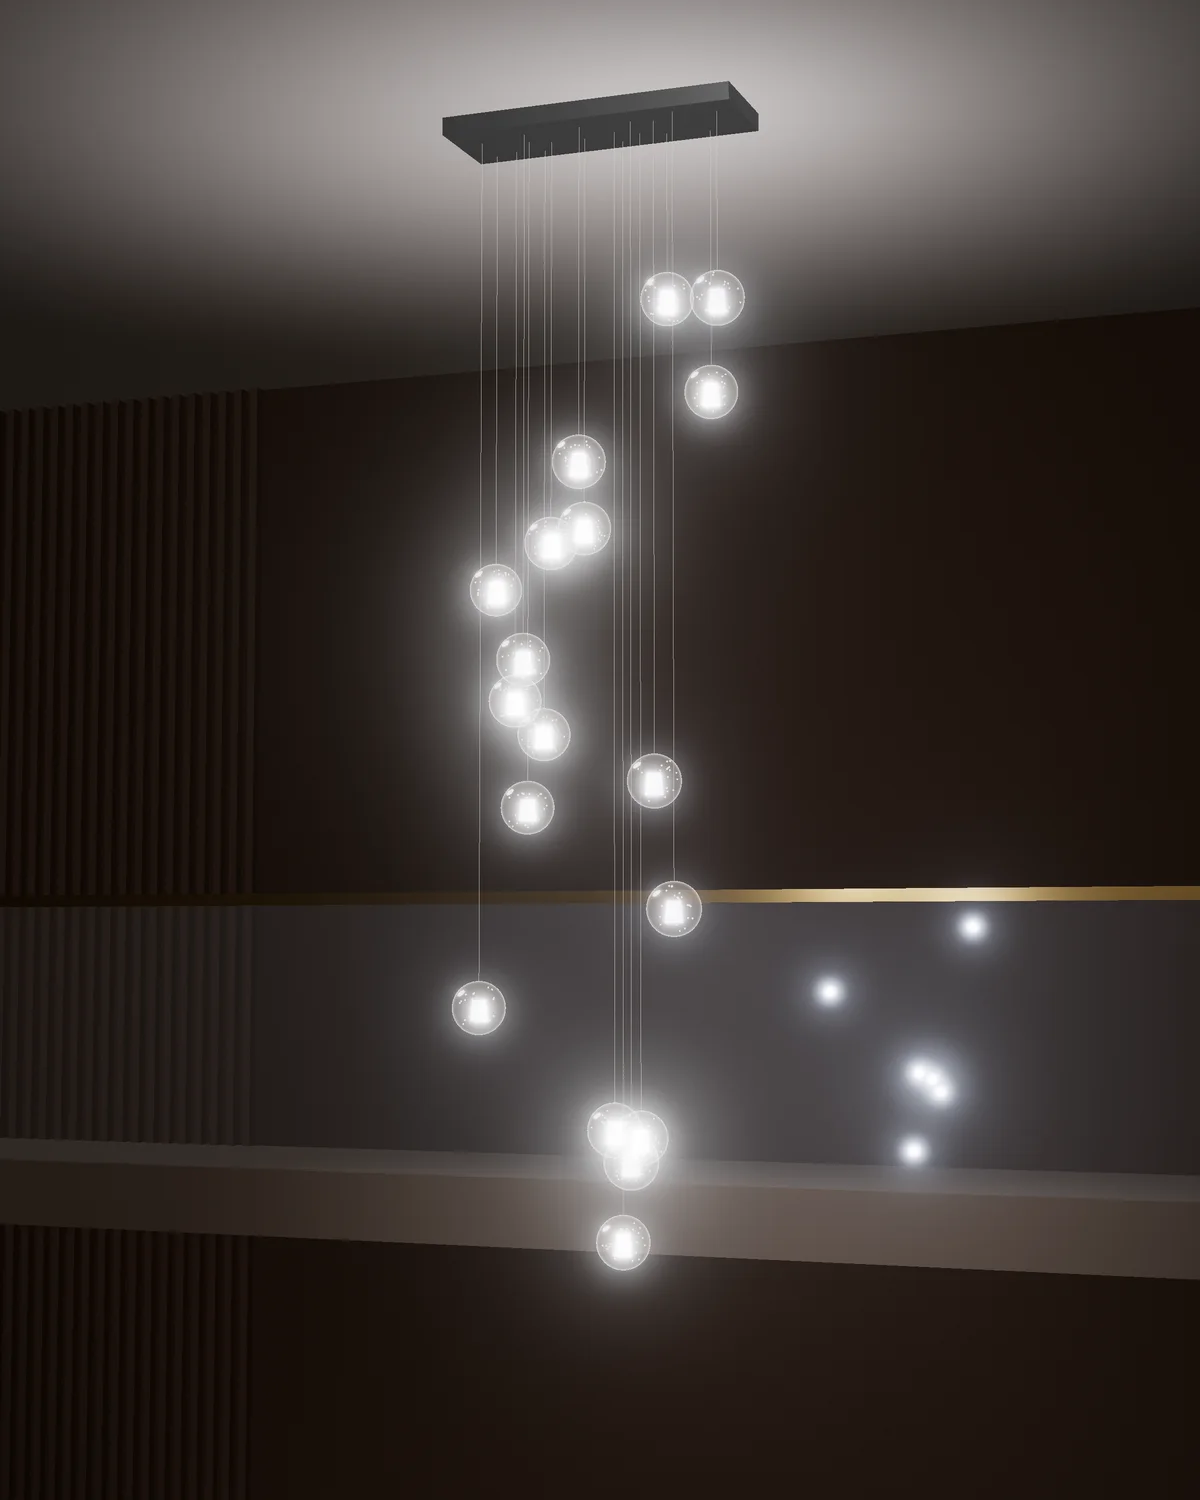
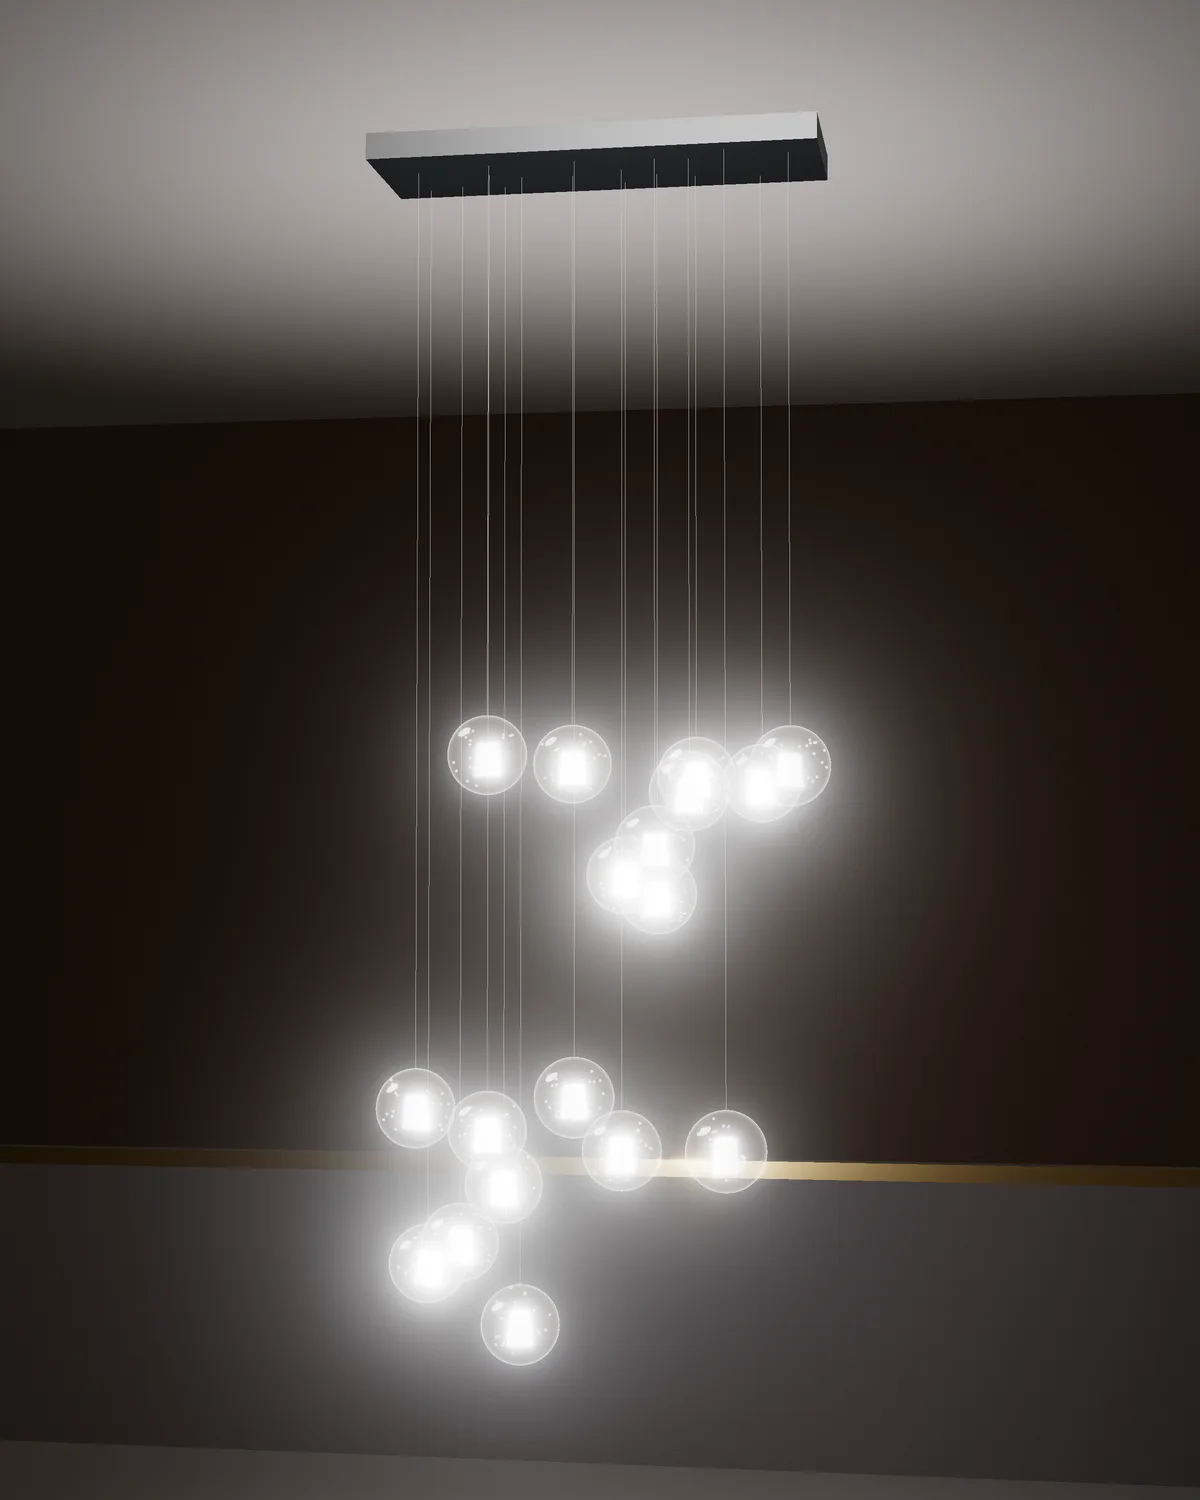
LUMÉANCE : rendus Céleste rectangulaires conformes aux schémas du fabricant
- Barre 5 et 7 sphères : sphères alignées et régulièrement espacées,
  suspendues en zigzag sur une hauteur réduite, proportionnées à la barre.
- Rectangles 14, 18, 36 : sphères groupées dans une bande (et non en
  cascade), cadrage resserré de face, pavillon sans reflet blanc.

Claude-Session: https://claude.ai/code/session_01TDDveFcW3GdVAgEH7JeJuL

diff --git a/lumeance/scripts/render/scene.html b/lumeance/scripts/render/scene.html
@@ -81,6 +81,7 @@ const key = new THREE.SpotLight({ chaud: 0xffd29a, neutre: 0xffeedd, froid: 0xe8
 
 // ── Pavillon ──
 const chrome = new THREE.MeshStandardMaterial({ color: 0xdedede, metalness: 1, roughness: 0.12 });
+if (shape === "rect") { chrome.roughness = 0.3; chrome.color.set(0x8c8c8c); } // évite le reflet blanc de face sur la barre
 const canopyT = 0.05;
 let canopy;
 if (shape === "round") canopy = new THREE.Mesh(new THREE.CylinderGeometry(W / 2, W / 2, canopyT, 96), chrome);
@@ -92,7 +93,10 @@ const margin = 0.04;
 const pts = [];
 const minDist = Math.max(0.035, Math.sqrt((W * D) / Math.max(n, 1)) * 0.55);
 let guard = 0;
-while (pts.length < n && guard++ < 20000) {
+// Barre étroite (rectangle 5 et 7 sphères) : sphères alignées, régulièrement espacées (schéma fabricant).
+const isBar = shape === "rect" && D <= 0.1;
+if (isBar) for (let i = 0; i < n; i++) pts.push({ x: -W / 2 + margin + (i * (W - 2 * margin)) / Math.max(n - 1, 1), z: 0 });
+while (!isBar && pts.length < n && guard++ < 20000) {
   let x, z;
   if (shape === "round") { const a = rand() * Math.PI * 2, r = Math.sqrt(rand()) * (W / 2 - margin); x = Math.cos(a) * r; z = Math.sin(a) * r; }
   else { x = (rand() - 0.5) * (W - 2 * margin); z = (rand() - 0.5) * Math.max(D - 2 * margin, 0.001); }
@@ -101,8 +105,10 @@ while (pts.length < n && guard++ < 20000) {
 // Hauteurs : spirale descendante (rond) ou répartition aléatoire (autres), de 0,35 m à H.
 const order = pts.map((p, i) => ({ ...p, a: Math.atan2(p.z, p.x), i }));
 if (shape === "round") order.sort((a, b) => a.a - b.a);
+else if (isBar) order.sort((a, b) => a.x - b.x);
 else order.sort(() => rand() - 0.5);
-const R = 0.075; // rayon d'une sphère (≈ 15 cm de diamètre)
+// Sphères ≈ 15 cm ; réduites sur la barre étroite pour rester espacées (proportions du schéma fabricant).
+const R = isBar ? Math.min(0.075, ((W - 0.08) / Math.max(n - 1, 1)) * 0.36) : 0.075;
 // Verre clair : quasi transparent (non éclairé de l'intérieur), lisible par son contour et ses reflets.
 const glass = new THREE.MeshBasicMaterial({ color: 0xffe6c4, transparent: true, opacity: 0.07, depthWrite: false });
 const glint = new THREE.MeshBasicMaterial({ color: 0xffffff, transparent: true, opacity: 0.85 });
@@ -118,9 +124,17 @@ const sphereGeo = new THREE.SphereGeometry(R, 48, 32);
 // Bulles prises dans le verre (aspect « verre cristal »)
 const bubbleGeo = new THREE.SphereGeometry(0.003, 6, 4);
 const bubbleMat = new THREE.MeshBasicMaterial({ color: 0xfff3e0, transparent: true, opacity: 0.8 });
+let maxDrop = 0;
 order.forEach((p, k) => {
   const t = order.length > 1 ? k / (order.length - 1) : 0;
-  const drop = 0.35 + (shape === "round" ? t : rand()) * (H - 0.45) + (rand() - 0.5) * 0.12;
+  // Rond / carré : cascade sur toute la hauteur. Rectangle : sphères groupées dans une bande
+  // (zigzag régulier pour la barre), comme sur les schémas du fabricant.
+  const drop = shape === "rect"
+    ? isBar
+      ? H * (0.42 + (k % 2 ? 0.14 : 0) + (k % 3 === 2 ? 0.07 : 0)) + (rand() - 0.5) * 0.05
+      : H * (0.32 + rand() * 0.34)
+    : 0.35 + t * (H - 0.45) + (rand() - 0.5) * 0.12;
+  maxDrop = Math.max(maxDrop, drop);
   const y = ceilingY - canopyT - drop;
   const g = new THREE.Group(); g.position.set(p.x, y, p.z);
   const shell = new THREE.Mesh(sphereGeo, glass); g.add(shell);
@@ -138,10 +152,13 @@ order.forEach((p, k) => {
 
 // ── Caméra : contre-plongée légère, cadrage de toute la composition ──
 const camera = new THREE.PerspectiveCamera(34, WIDTH / HEIGHT, 0.05, 100);
-const midY = ceilingY - (H + 0.2) / 2;
-const span = H + 0.55;
+// Rond / carré : toute la cascade. Rectangle : cadrage serré sur le luminaire, presque de face.
+const rectFrame = shape === "rect";
+const visibleH = rectFrame ? maxDrop + R + 0.15 : H + 0.2;
+const midY = ceilingY - visibleH / 2;
+const span = rectFrame ? Math.max(visibleH + 0.35, (W + 0.4) * (HEIGHT / WIDTH)) : H + 0.55;
 const dist = span / (2 * Math.tan(THREE.MathUtils.degToRad(34 / 2))) * 1.02;
-camera.position.set(dist * 0.35, midY - span * 0.12, dist * 0.94);
+camera.position.set(dist * (rectFrame ? 0.16 : 0.35), midY - span * (rectFrame ? 0.06 : 0.12), dist * (rectFrame ? 0.99 : 0.94));
 camera.lookAt(0, midY + 0.05, 0);
 
 const composer = new EffectComposer(renderer);
